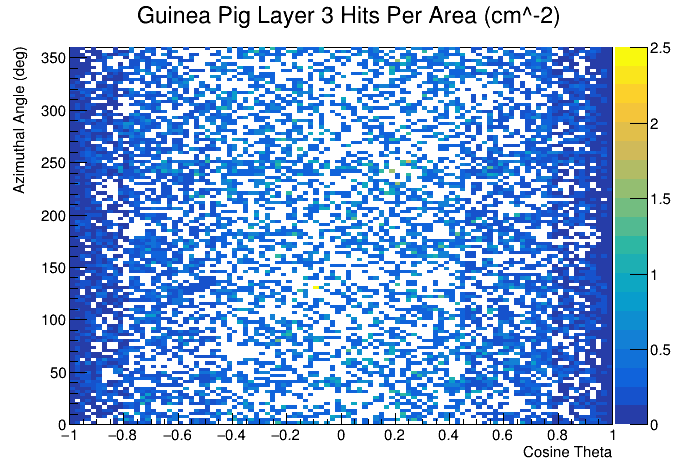
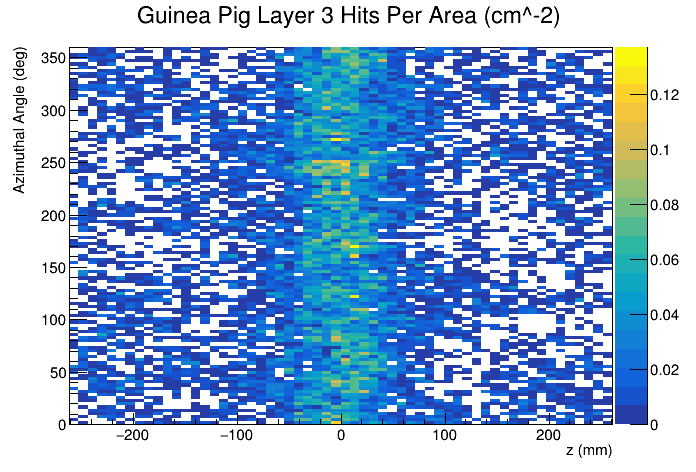
changing axes of hit rate plots from cos theta to z

diff --git a/python/hit_rate_mapper.py b/python/hit_rate_mapper.py
@@ -10,6 +10,7 @@ events = podio_reader.get("events")
 layer_radii = [14, 23, 34.5, 141, 316]
 true_radii = [1.37, 2.37, 3.4, 13, 31.5]
 disk_z = [303, 635, 945, -303, -635, -945]
+z_ranges = {14: (96,4), 23: (162,6), 34.5: (261,9), 141: (162,6), 316: (324,12)}
 particles = {11: "electron", -11: "positron"}
 
 def phi(x,y):
@@ -57,12 +58,12 @@ def z_coord(hit):
             return z
     raise ValueError(f"Not close enough to any of the disks {true_z}")
 
-hit_map = {coord: {cos: {azimuthal: {particle: [0] * 100 \
-            for particle in particles.values()} for azimuthal in range(0, 360, 3)} \
-                for cos in range(-100, 100, 2)} for coord in layer_radii + disk_z}
+# hit_map = {coord: {cos: {azimuthal: {particle: [0] * 100 \
+            # for particle in particles.values()} for azimuthal in range(0, 360, 3)} \
+                # for cos in range(-100, 100, 2)} for coord in layer_radii + disk_z}
 
-# hit_map = {coord: {cos: {azimuthal: [0] * 100 for azimuthal in range(0, 360, 3)} \
-                #    for cos in range(-100, 100, 2)} for coord in layer_radii + disk_z}
+hit_map = {coord: {z: {azimuthal: [0] * 100 for azimuthal in range(0, 360, 3)} \
+                   for z in range(-z_ranges[coord][0], z_ranges[coord][0], z_ranges[coord][1])} for coord in layer_radii}
 
 for i in range(100):
     event = events[i]
@@ -76,47 +77,51 @@ for i in range(100):
             else:
                 hits[z_coord(hit)].append(hit)
 
-    for coord in layer_radii + disk_z:
+    for coord in layer_radii:
         for hit in hits[coord]:
             if hit.getEDep() < 0.000002:
                 continue
 
-            mc = hit.getMCParticle()
-            pdg = mc.getPDG()
+            # mc = hit.getMCParticle()
+            # pdg = mc.getPDG()
 
-            if pdg in particles:
-                particle = particles[pdg]
-            else:
-                continue
+            # if pdg in particles:
+            #     particle = particles[pdg]
+            # else:
+            #     continue
 
-            cos_th = math.cos(theta(hit.getPosition().x, hit.getPosition().y, hit.getPosition().z))
+            # cos_th = math.cos(theta(hit.getPosition().x, hit.getPosition().y, hit.getPosition().z))
             ph = phi(hit.getPosition().x, hit.getPosition().y) * (180 / math.pi)
-            hit_map[coord][int(((100 * cos_th) // 2) * 2)][int((ph // 3) * 3)][particle][i] += 1
-            # hit_map[coord][int(((100 * cos_th) // 2) * 2)][int((ph // 3) * 3)][i] += 1
+            z = hit.getPosition().z
+            if abs(z) > z_ranges[coord][0]:
+                continue
+            # hit_map[coord][int(((100 * cos_th) // 2) * 2)][int((ph // 3) * 3)][particle][i] += 1
+            hit_map[coord][int((z // z_ranges[coord][1]) * z_ranges[coord][1])][int((ph // 3) * 3)][i] += 1
 
 for layer_index in range(5):
-    for particle in particles.values():
+    # for particle in particles.values():
 
         r = true_radii[layer_index]
-        hist = ROOT.TH2F("hit map", f"Guinea Pig Layer {layer_index + 1} Hits", 100, -1, 1, 120, 0, 360)
-        hist.SetTitle(f"Guinea Pig Layer {layer_index + 1} {particle.capitalize()} Hits Per Area (cm ^-2);Cosine Theta;Azimuthal Angle (deg)")
-        # hist.SetTitle(f"Guinea Pig Layer {layer_index + 1} Hits Per Area (cm^-2);Cosine Theta; Azimuthal Angle (deg)")
+        z_range = z_ranges[layer_radii[layer_index]]
+        hist = ROOT.TH2F("hit map", f"Guinea Pig Layer {layer_index + 1} Hits", (2 * z_range[0]) // z_range[1], -z_range[0], z_range[0], 120, 0, 360)
+        # hist.SetTitle(f"Guinea Pig Layer {layer_index + 1} {particle.capitalize()} Hits Per Area (cm ^-2);Cosine Theta;Azimuthal Angle (deg)")
+        hist.SetTitle(f"Guinea Pig Layer {layer_index + 1} Hits Per Area (cm^-2);z (mm); Azimuthal Angle (deg)")
 
-        for cos_th in range(-100, 100, 2):
-            polar = math.acos((cos_th + 1) / 100)
-            delta_angle = math.pi/60
-            area_num = (math.sin(delta_angle) * delta_angle) * (r ** 2)
-            area_den = math.sin(polar) ** 2
-            area = area_num / area_den
+        for z in range(-z_range[0], z_range[0], z_range[1]):
+            area = z_range[1] * r * math.pi/60
+            # delta_angle = math.pi/60
+            # area_num = (math.sin(delta_angle) * delta_angle) * (r ** 2)
+            # area_den = math.sin(polar) ** 2
+            # area = area_num / area_den
             for azimuthal in range(0, 360, 3):
-                hits = np.mean(hit_map[layer_radii[layer_index]][cos_th][azimuthal][particle])
-                # hits = np.mean(hit_map[layer_radii[layer_index]][cos_th][azimuthal])
-                hist.SetBinContent((cos_th // 2) + 51, (azimuthal // 3) + 1, hits / area)
+                # hits = np.mean(hit_map[layer_radii[layer_index]][cos_th][azimuthal][particle])
+                hits = np.mean(hit_map[layer_radii[layer_index]][z][azimuthal])
+                hist.SetBinContent(((z + z_range[0]) // z_range[1]) + 1, (azimuthal // 3) + 1, hits / area)
 
         hist.SetStats(0)
         canvas = ROOT.TCanvas("hit map", f"Guinea Pig Layer {layer_index + 1} Hits")
         canvas.SetRightMargin(0.12)
         hist.Draw("colz")
         canvas.Update()
-        canvas.SaveAs(f"../plots/hit_rates/{particle}/gp_layer{layer_index + 1}_{particle}_hit_rate.png")
-        # canvas.SaveAs(f"../plots/hit_rates/per_area/gp_layer{layer_index + 1}_hit_rate.png")
+        # canvas.SaveAs(f"../plots/hit_rates/{particle}/gp_layer{layer_index + 1}_{particle}_hit_rate.png")
+        canvas.SaveAs(f"../plots/hit_rates/per_area/gp_layer{layer_index + 1}_hit_rate.png")
